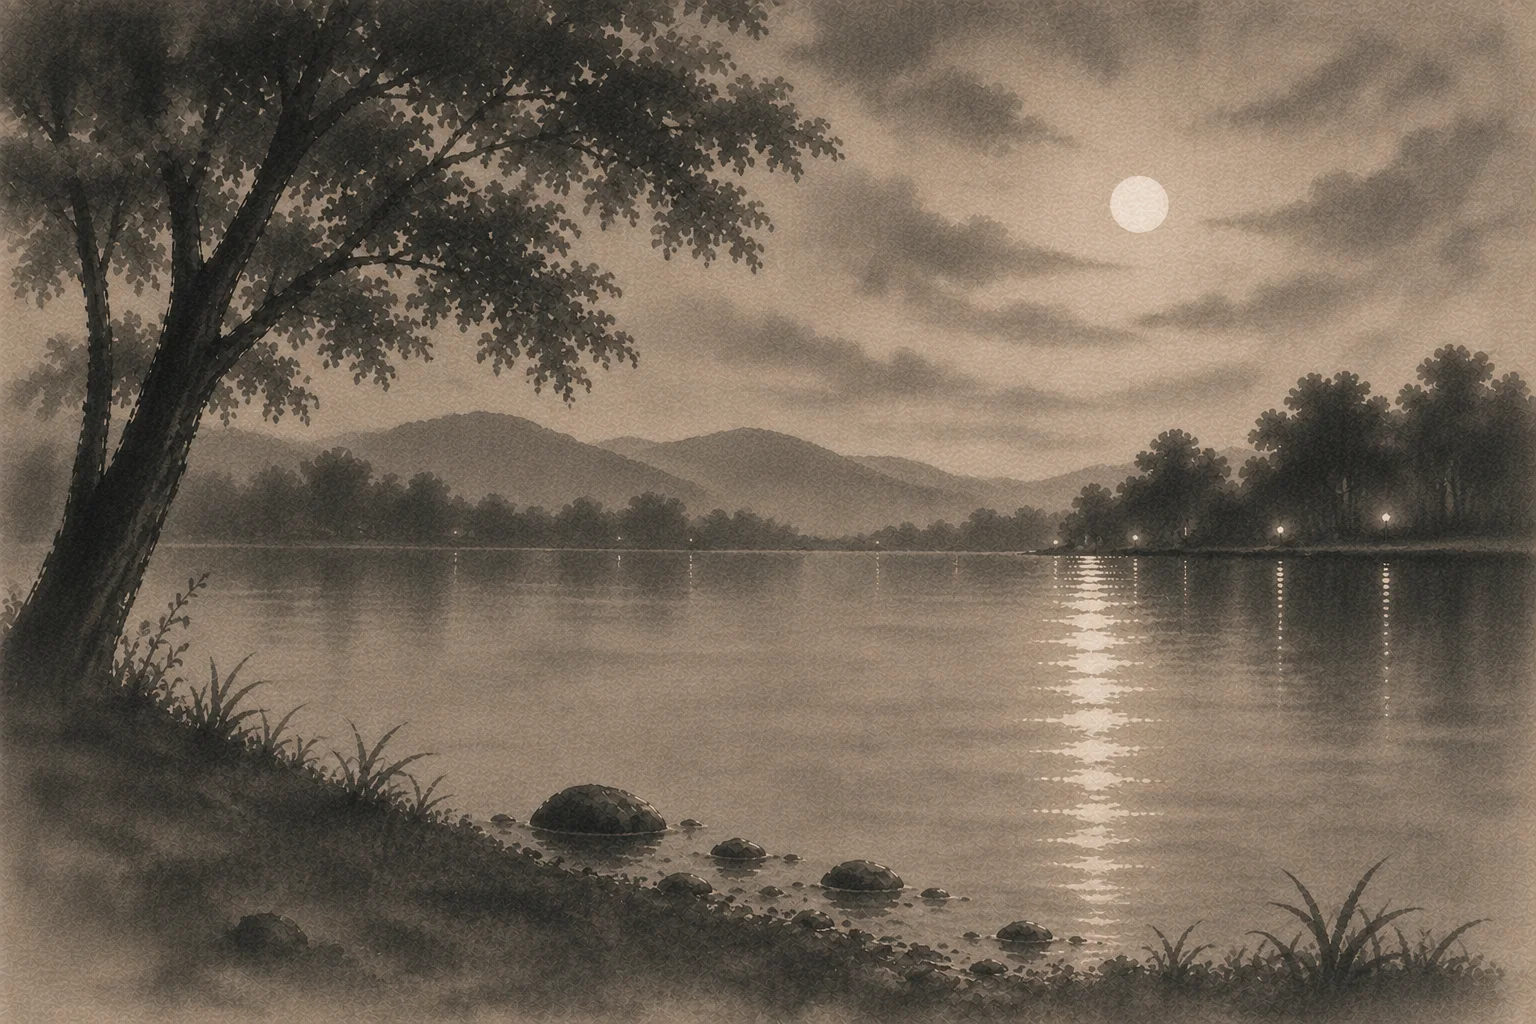
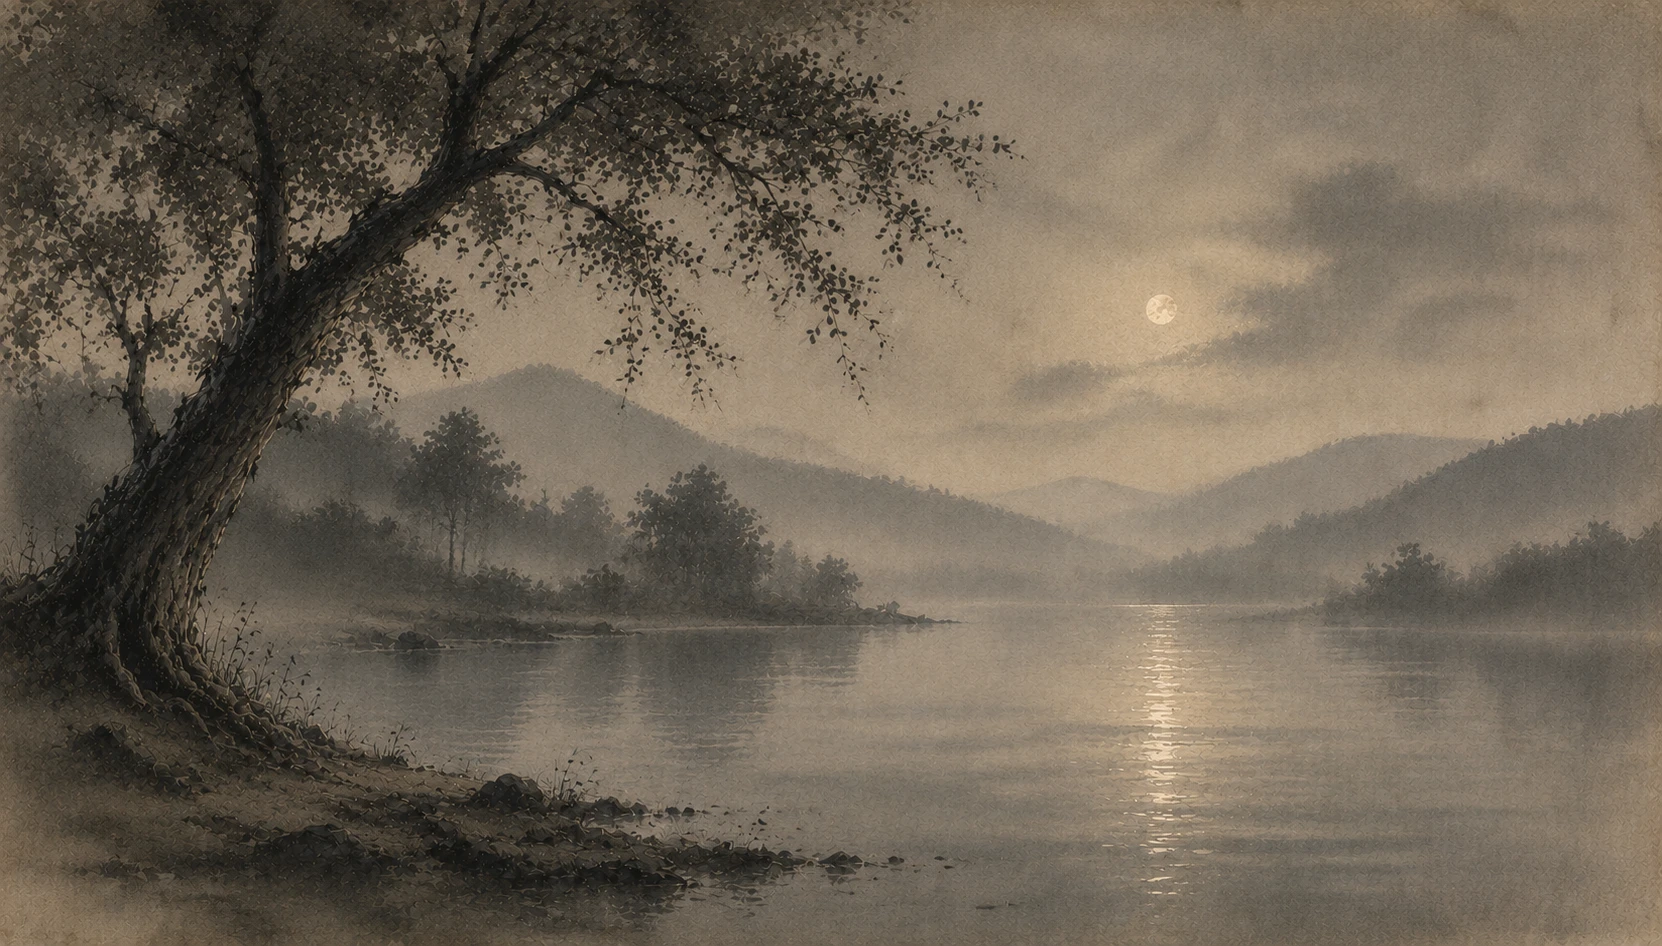
Deploy current working_site

diff --git a/resources/css/essay_book.css b/resources/css/essay_book.css
@@ -114,7 +114,7 @@ hr {
     .essay-image img {
         width: 92%;
     }
-    
+
     .report {
         font-size: 17px;
     }
@@ -132,12 +132,18 @@ hr {
 
 .essay-image img {
     display: block;
-    width: min(72%, 920px);
-    max-width: 920px;
+
+    width: min(84%, 1100px);
+    max-width: 1100px;
+
     height: auto;
+
     margin: 0 auto;
+
     opacity: 0.92;
+
     filter: grayscale(100%) contrast(1.04);
+
     border-radius: 4px;
 }
 

diff --git a/essays/whose_plan.html b/essays/whose_plan.html
@@ -3804,6 +3804,12 @@ The lake stretched silently before them while the last light disappeared into th
 <h2 id="chapter-11" class="chapter-title">Chapter 11 — The Space Before</h2>
 <h3 class="chapter-subtitle">The moment where life begins opening again.</h3>
 
+<figure class="essay-image">
+    <img
+        src="../resources/images/whose_plan_lake_11.webp"
+        alt="Quiet lakeshore at dawn">
+</figure>
+
 <p>
 The next few days passed quietly. Not peacefully all the time, and not transformed. The mind still moved constantly. Thoughts still rehearsed themselves. Emotional reactions still appeared before Kitty fully understood them. Moments of insecurity, irritation, attraction, defensiveness, and self-consciousness still moved through her throughout the day.
 </p>